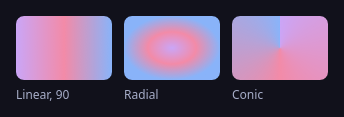
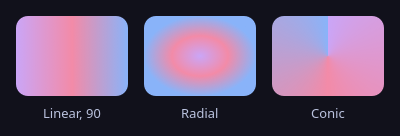
Redo the paint guide's shots as real shell elements
The examples were bare boxes, a "Row N" list and a lone 64 px avatar. Each
now shows its property on something a shell has: a battery card, larger
gradient swatches, a Wi-Fi list under the scroll mask, star cards for the
two shadow modes, a clock-and-date glass pill, an upgrade button with a
gradient ring and an account card.

diff --git a/docs/guide/paint.md b/docs/guide/paint.md
@@ -4,11 +4,12 @@ How a node looks: fills, gradients, corners, borders, clipping, masks, shadows a
 blurs. Layout and per-kind properties are on [Nodes](../nodes/index.md); easing any of these
 values is on [Animation](animation.md).
 
-<!-- shot-alt: A rounded battery card with a translucent fill, border, and shadow. -->
+<!-- shot-alt: A rounded battery card with a translucent fill, a faint border and a soft shadow, showing a green level bar at 82% and the time left. -->
 ```lua,shot
 column {
+    width = 240,
     padding = 16,
-    spacing = 8,
+    spacing = 10,
     background = "#1E1E2EF2",
     radius = 12,
     border_width = 1,
@@ -17,8 +18,21 @@ column {
     shadow_blur = 18,
     shadow_offset = { x = 0, y = 8 },
     children = {
-        text { content = "Battery", font_size = 14, foreground = "#CDD6F4" },
-        text { content = "82% · 3 h 10 min left", foreground = "#A6ADC8" },
+        row {
+            width = "Fill",
+            children = {
+                text { content = "Battery", width = "Fill", font_size = 14, font_weight = 700, foreground = "#CDD6F4" },
+                text { content = "82%", font_size = 14, foreground = "#A6E3A1" },
+            },
+        },
+        rect {
+            width = "Fill",
+            height = 6,
+            radius = 3,
+            background = "#313244",
+            children = { rect { width = "82%", height = 6, radius = 3, background = "#A6E3A1" } },
+        },
+        text { content = "3 h 10 min left", font_size = 12, foreground = "#A6ADC8" },
     },
 }
 ```
@@ -135,22 +149,22 @@ background = {
 | `Radial` | An ellipse from the centre out to the box's edges, not its corners |
 | `Conic` | A turn around the centre, starting at `angle` |
 
-<!-- shot-alt: Linear, radial, and conic gradient tiles. -->
+<!-- shot-alt: The same three stops, mauve to pink to blue, as a linear, a radial and a conic gradient tile. -->
 ```lua,shot
 local stops = { { 0, "#CBA6F7" }, { 0.5, "#F38BA8" }, { 1, "#89B4FA" } }
 
 local function swatch(label, fill)
     return column {
-        spacing = 6,
+        spacing = 8,
         children = {
-            rect { width = 96, height = 64, radius = 8, background = fill },
-            text { content = label, foreground = "#A6ADC8" },
+            rect { width = 112, height = 80, radius = 12, background = fill },
+            text { content = label, font_size = 13, foreground = "#BAC2DE", align_h = "Center" },
         },
     }
 end
 
 return row {
-    spacing = 12,
+    spacing = 16,
     children = {
         swatch("Linear, 90", { gradient = "Linear", angle = 90, stops = stops }),
         swatch("Radial", { gradient = "Radial", stops = stops }),
@@ -187,24 +201,38 @@ Name exactly one of `source`, `node`, or a gradient. A masked box draws its subt
 and always cuts children to its box (to `radius` too under `clip = "Rounded"`), even with
 `clip = "None"`.
 
-<!-- shot-alt: A scrolling list whose top and bottom rows fade under a gradient mask. -->
+<!-- shot-alt: A scrolling list of Wi-Fi networks in a card; the rows at its top and bottom edges fade out under a gradient mask. -->
 ```lua,shot
-local items = {}
-for i = 1, 12 do
-    items[i] = rect { width = "Fill", padding = 10, radius = 8, background = "#313244",
-        children = { text { content = "Row " .. i, foreground = "#CDD6F4" } } }
+local networks = { "Home", "Office 5G", "Cafe Guest", "Library", "Studio", "Garden", "Lab", "Backup", "Hotspot", "Lobby",
+    "Attic", "Garage" }
+local rows = {}
+for i, name in ipairs(networks) do
+    rows[i] = row {
+        width = "Fill",
+        padding = 10,
+        spacing = 10,
+        radius = 8,
+        background = i == 1 and "#89B4FA26" or "#313244",
+        children = {
+            icon { name = "network-wireless-symbolic", size = 16, foreground = i == 1 and "#89B4FA" or "#A6ADC8", align_v = "Center" },
+            text { content = name, foreground = "#CDD6F4", align_v = "Center" },
+        },
+    }
 end
 
 return column {
-    width = 200,
+    width = 220,
     height = 240,
+    padding = 8,
     spacing = 6,
+    radius = 12,
+    background = "#1E1E2E",
     scroll = scroll("feed"),
     mask = {
         gradient = "Linear",
-        stops = { { 0, "#00000000" }, { 0.08, "#000000" }, { 0.92, "#000000" }, { 1, "#00000000" } },
+        stops = { { 0, "#00000000" }, { 0.1, "#000000" }, { 0.9, "#000000" }, { 1, "#00000000" } },
     },
-    children = items,
+    children = rows,
 }
 ```
 
@@ -248,26 +276,31 @@ A shadow draws when `shadow_color` has alpha above 0 and at least one of `shadow
 Non-box nodes (`text`, `icon`, `image`, ...) have no box to cast, so their shadow is always the
 content's: text gets a glyph-shaped shadow. The same unfilled, bordered box in each mode:
 
-<!-- shot-alt: Box and content shadows cast by two bordered cards. -->
+<!-- shot-alt: Two unfilled cards with a blue border, a star and a label on a grey panel: the Box card casts one rounded shadow, the Content card casts shadows of its border ring, star and text. -->
 ```lua,shot
 local function card(mode)
-    return column {
+    return row {
         padding = 14,
+        spacing = 10,
         radius = 12,
-        border_width = 1,
+        border_width = 2,
         border_color = "#89B4FA",
         shadow_mode = mode,
         shadow_color = "#000000",
         shadow_blur = 4,
         shadow_offset = { x = 5, y = 6 },
-        children = { text { content = mode, font_size = 20, foreground = "#CDD6F4" } },
+        children = {
+            icon { name = "starred-symbolic", size = 22, foreground = "#F9E2AF", align_v = "Center" },
+            text { content = mode, font_size = 20, foreground = "#CDD6F4", align_v = "Center" },
+        },
     }
 end
 
 return row {
-    padding = 24,
-    spacing = 24,
-    background = "#585B70",
+    padding = 28,
+    spacing = 28,
+    radius = 16,
+    background = "#6C7086",
     children = { card("Box"), card("Content") },
 }
 ```
@@ -322,23 +355,29 @@ panel {
 
 A bar whose 60% fill tints the compositor-blurred desktop behind it.
 
-<!-- shot-alt: A frosted clock pill over a mountain illustration. -->
+<!-- shot-alt: A frosted pill with the time and date over a mountain illustration, the scenery blurred behind it. -->
 ```lua,shot
 rect {
-    width = 320,
-    height = 180,
+    width = 360,
+    height = 200,
+    radius = 16,
+    clip = "Rounded",
     children = {
         image { source = "/usr/share/backgrounds/default.png", width = "Fill", height = "Fill", async = true },
         row {
             align_h = "Center",
             align_v = "Center",
-            padding = { left = 14, right = 14, top = 6, bottom = 6 },
+            padding = { left = 16, right = 16, top = 8, bottom = 8 },
+            spacing = 10,
             radius = 999,
             background = "#FFFFFF1F",
             border_width = 1,
             border_color = "#FFFFFF33",
             backdrop_blur = 12,
-            children = { text { content = "12:45", font_size = 18, foreground = "#FFFFFF" } },
+            children = {
+                text { content = "12:45", font_size = 20, font_weight = 700, foreground = "#FFFFFF", align_v = "Center" },
+                text { content = "Thu 24 Sep", font_size = 13, foreground = "#FFFFFFCC", align_v = "Center" },
+            },
         },
     },
 }
@@ -458,18 +497,22 @@ A radius past half the height makes the ends round whatever the label's width.
 
 ### Gradient border
 
-<!-- shot-alt: A rounded button made with a gradient border. -->
+<!-- shot-alt: An "Upgrade to Pro" button with a star, ringed by a mauve-to-blue gradient border. -->
 ```lua,shot
 rect {
     padding = 2,
     radius = 14,
     background = { gradient = "Linear", angle = 135, stops = { { 0, "#CBA6F7" }, { 1, "#89B4FA" } } },
     children = {
-        column {
-            padding = 14,
+        row {
+            padding = { left = 18, right = 18, top = 12, bottom = 12 },
+            spacing = 8,
             radius = 12,
             background = "#1E1E2E",
-            children = { text { content = "Pro", foreground = "#CDD6F4" } },
+            children = {
+                icon { name = "starred-symbolic", size = 16, foreground = "#CBA6F7", align_v = "Center" },
+                text { content = "Upgrade to Pro", font_weight = 700, foreground = "#CDD6F4", align_v = "Center" },
+            },
         },
     },
 }
@@ -480,16 +523,32 @@ rect {
 
 ### Circular avatar
 
-<!-- shot-alt: A circular avatar cropped from an image. -->
+<!-- shot-alt: An account card: a circular avatar cropped from a square image with a blue ring, beside the user's name and status. -->
 ```lua,shot
-rect {
-    width = 64,
-    height = 64,
-    radius = 32,
-    clip = "Rounded",
-    border_width = 2,
-    border_color = "#89B4FA",
-    children = { image { source = "/var/lib/AccountsService/icons/user", width = "Fill", height = "Fill" } },
+row {
+    padding = 12,
+    spacing = 12,
+    radius = 14,
+    background = "#1E1E2E",
+    children = {
+        rect {
+            width = 56,
+            height = 56,
+            radius = 28,
+            clip = "Rounded",
+            border_width = 2,
+            border_color = "#89B4FA",
+            children = { image { source = "/var/lib/AccountsService/icons/user", width = "Fill", height = "Fill" } },
+        },
+        column {
+            spacing = 2,
+            align_v = "Center",
+            children = {
+                text { content = "user", font_size = 15, font_weight = 700, foreground = "#CDD6F4" },
+                text { content = "Signed in", font_size = 12, foreground = "#A6ADC8" },
+            },
+        },
+    },
 }
 ```
 
